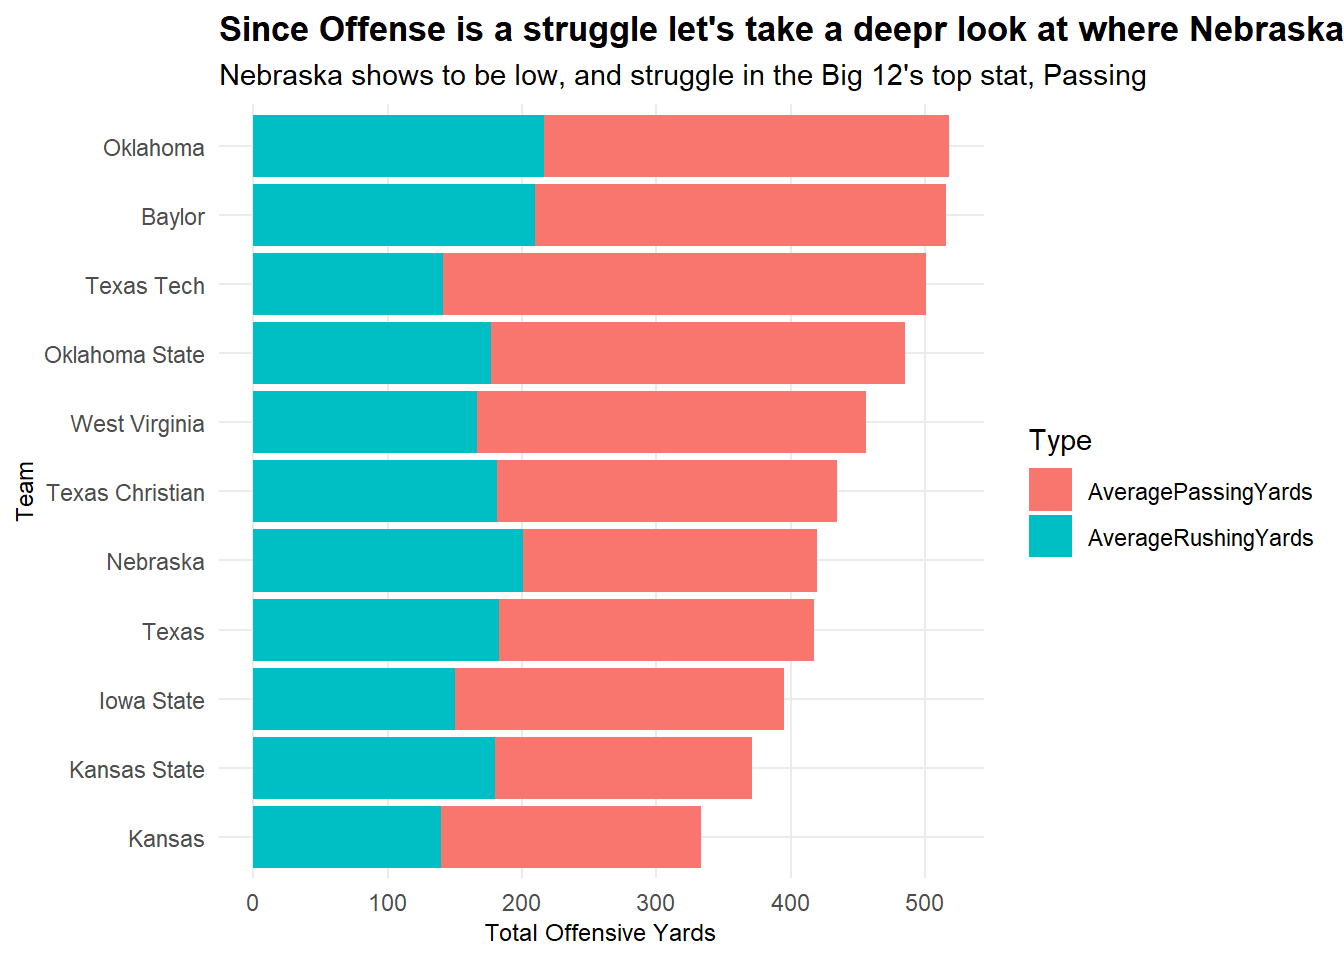
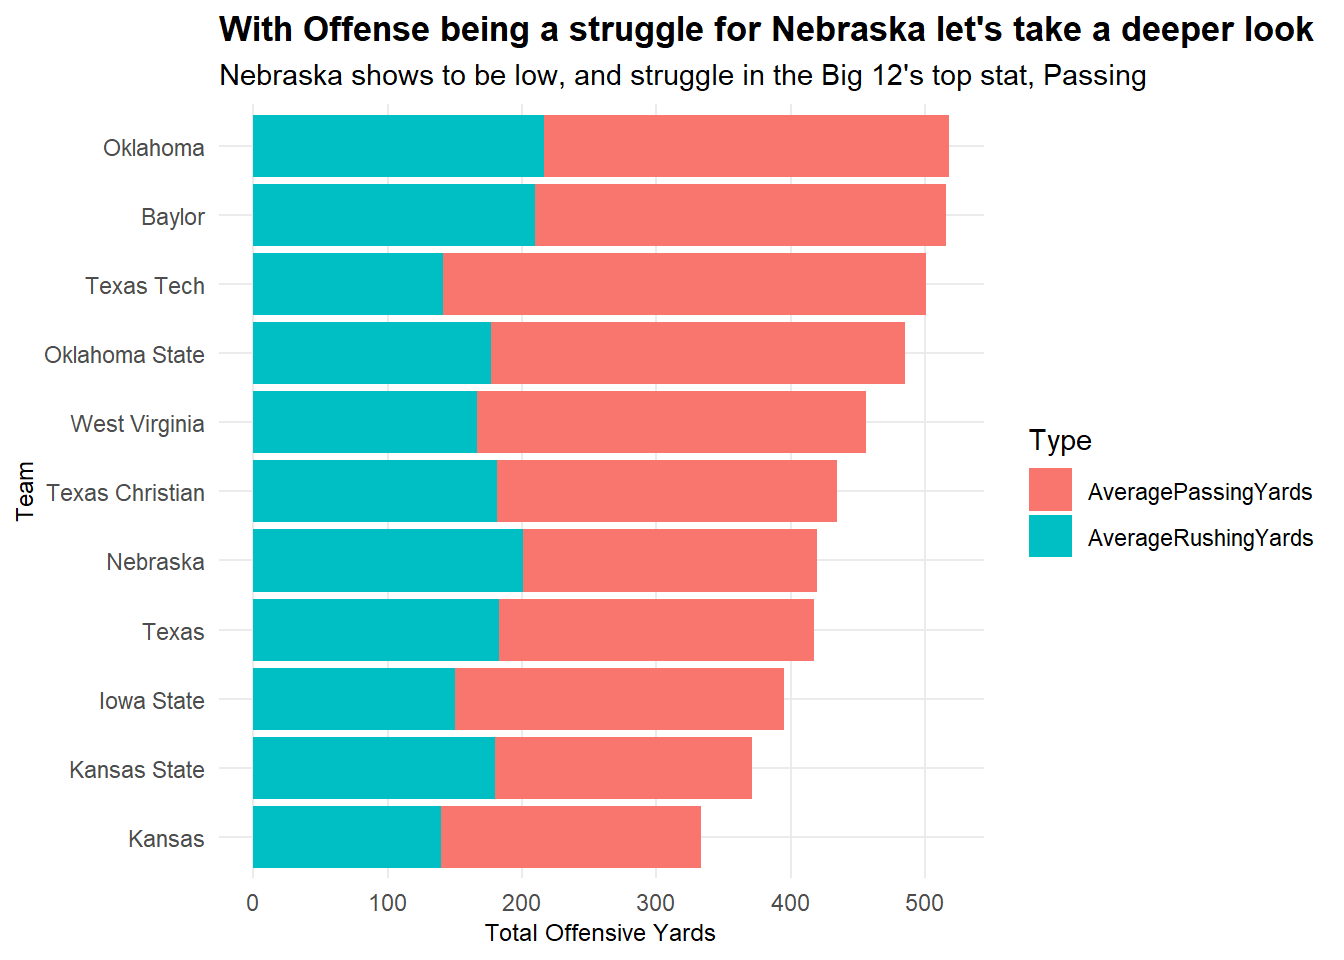
Nebraska Big 12 edit

Changed region(s): [[0.1562, 0.0, 1.0, 0.0625]]

diff --git a/post/2021/04/25/how-would-nebraska-football-stack-against-the-big-12-if-they-never-left/index.html b/post/2021/04/25/how-would-nebraska-football-stack-against-the-big-12-if-they-never-left/index.html
@@ -205,7 +205,7 @@ I now want to where Nebraska ranks in total offense and look at where they favor
   labs(
     x = &quot;Team&quot;,
     y = &quot;Total Offensive Yards&quot;,
-    title = &quot;Since Offense is a struggle let&#39;s take a deepr look at where Nebraska is&quot;,
+    title = &quot;With Offense being a struggle for Nebraska let&#39;s take a deeper look&quot;,
     subtitle = &quot;Nebraska shows to be low, and struggle in the Big 12&#39;s top stat, Passing&quot;,
     source = &quot;Source: Sports-Reference | by Jacob Janousek&quot;
   ) +
